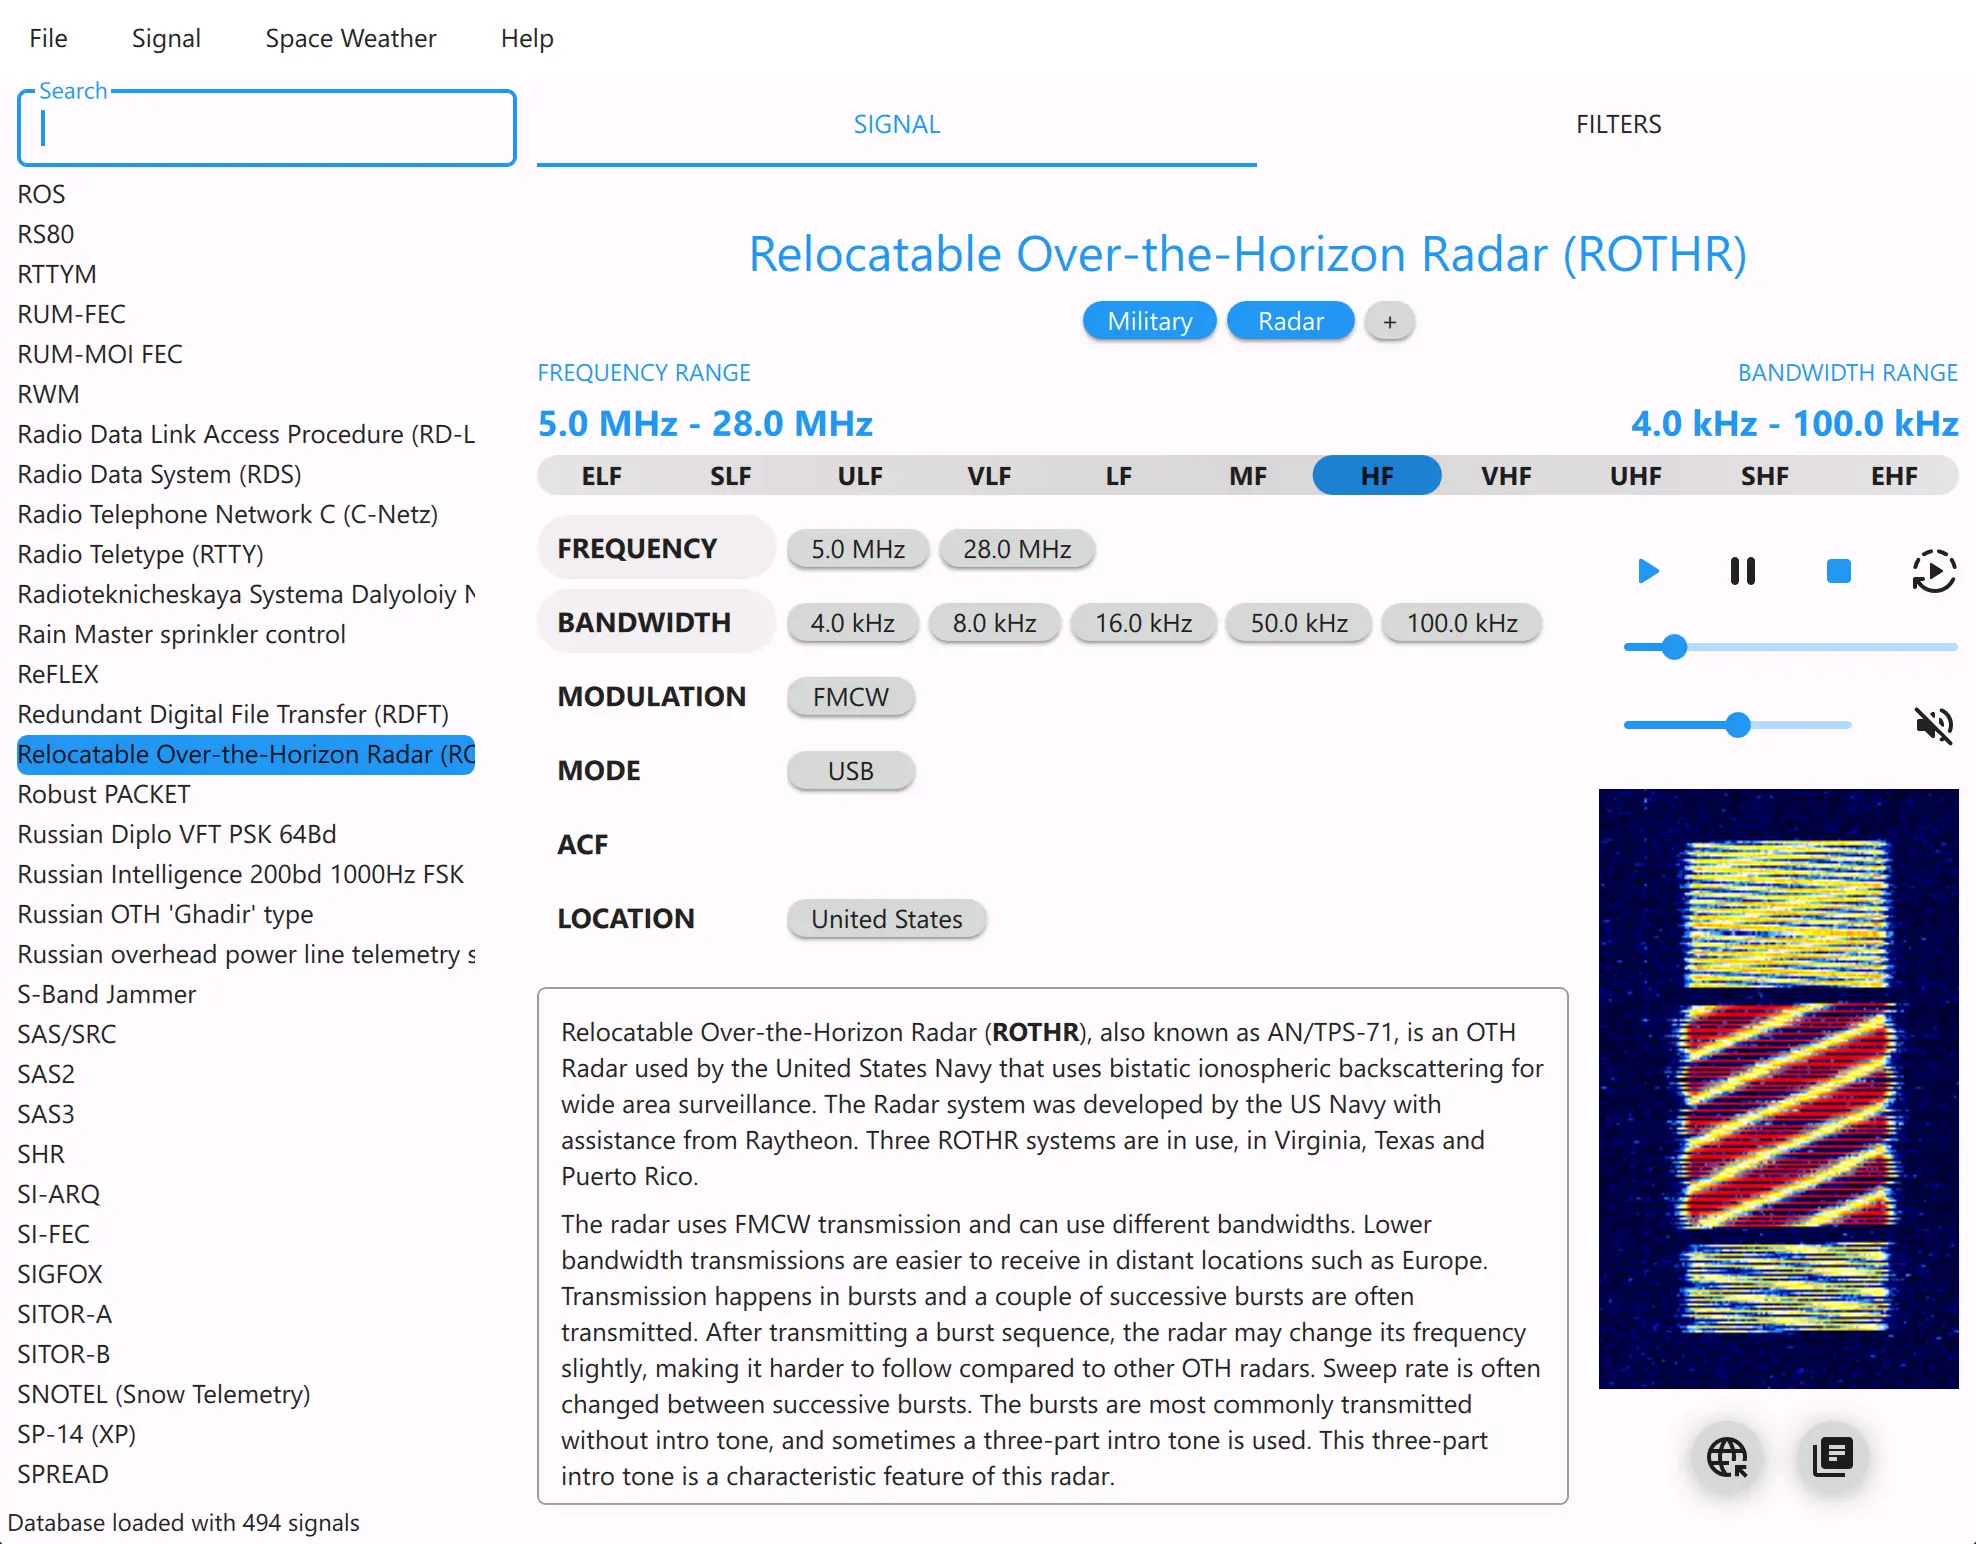
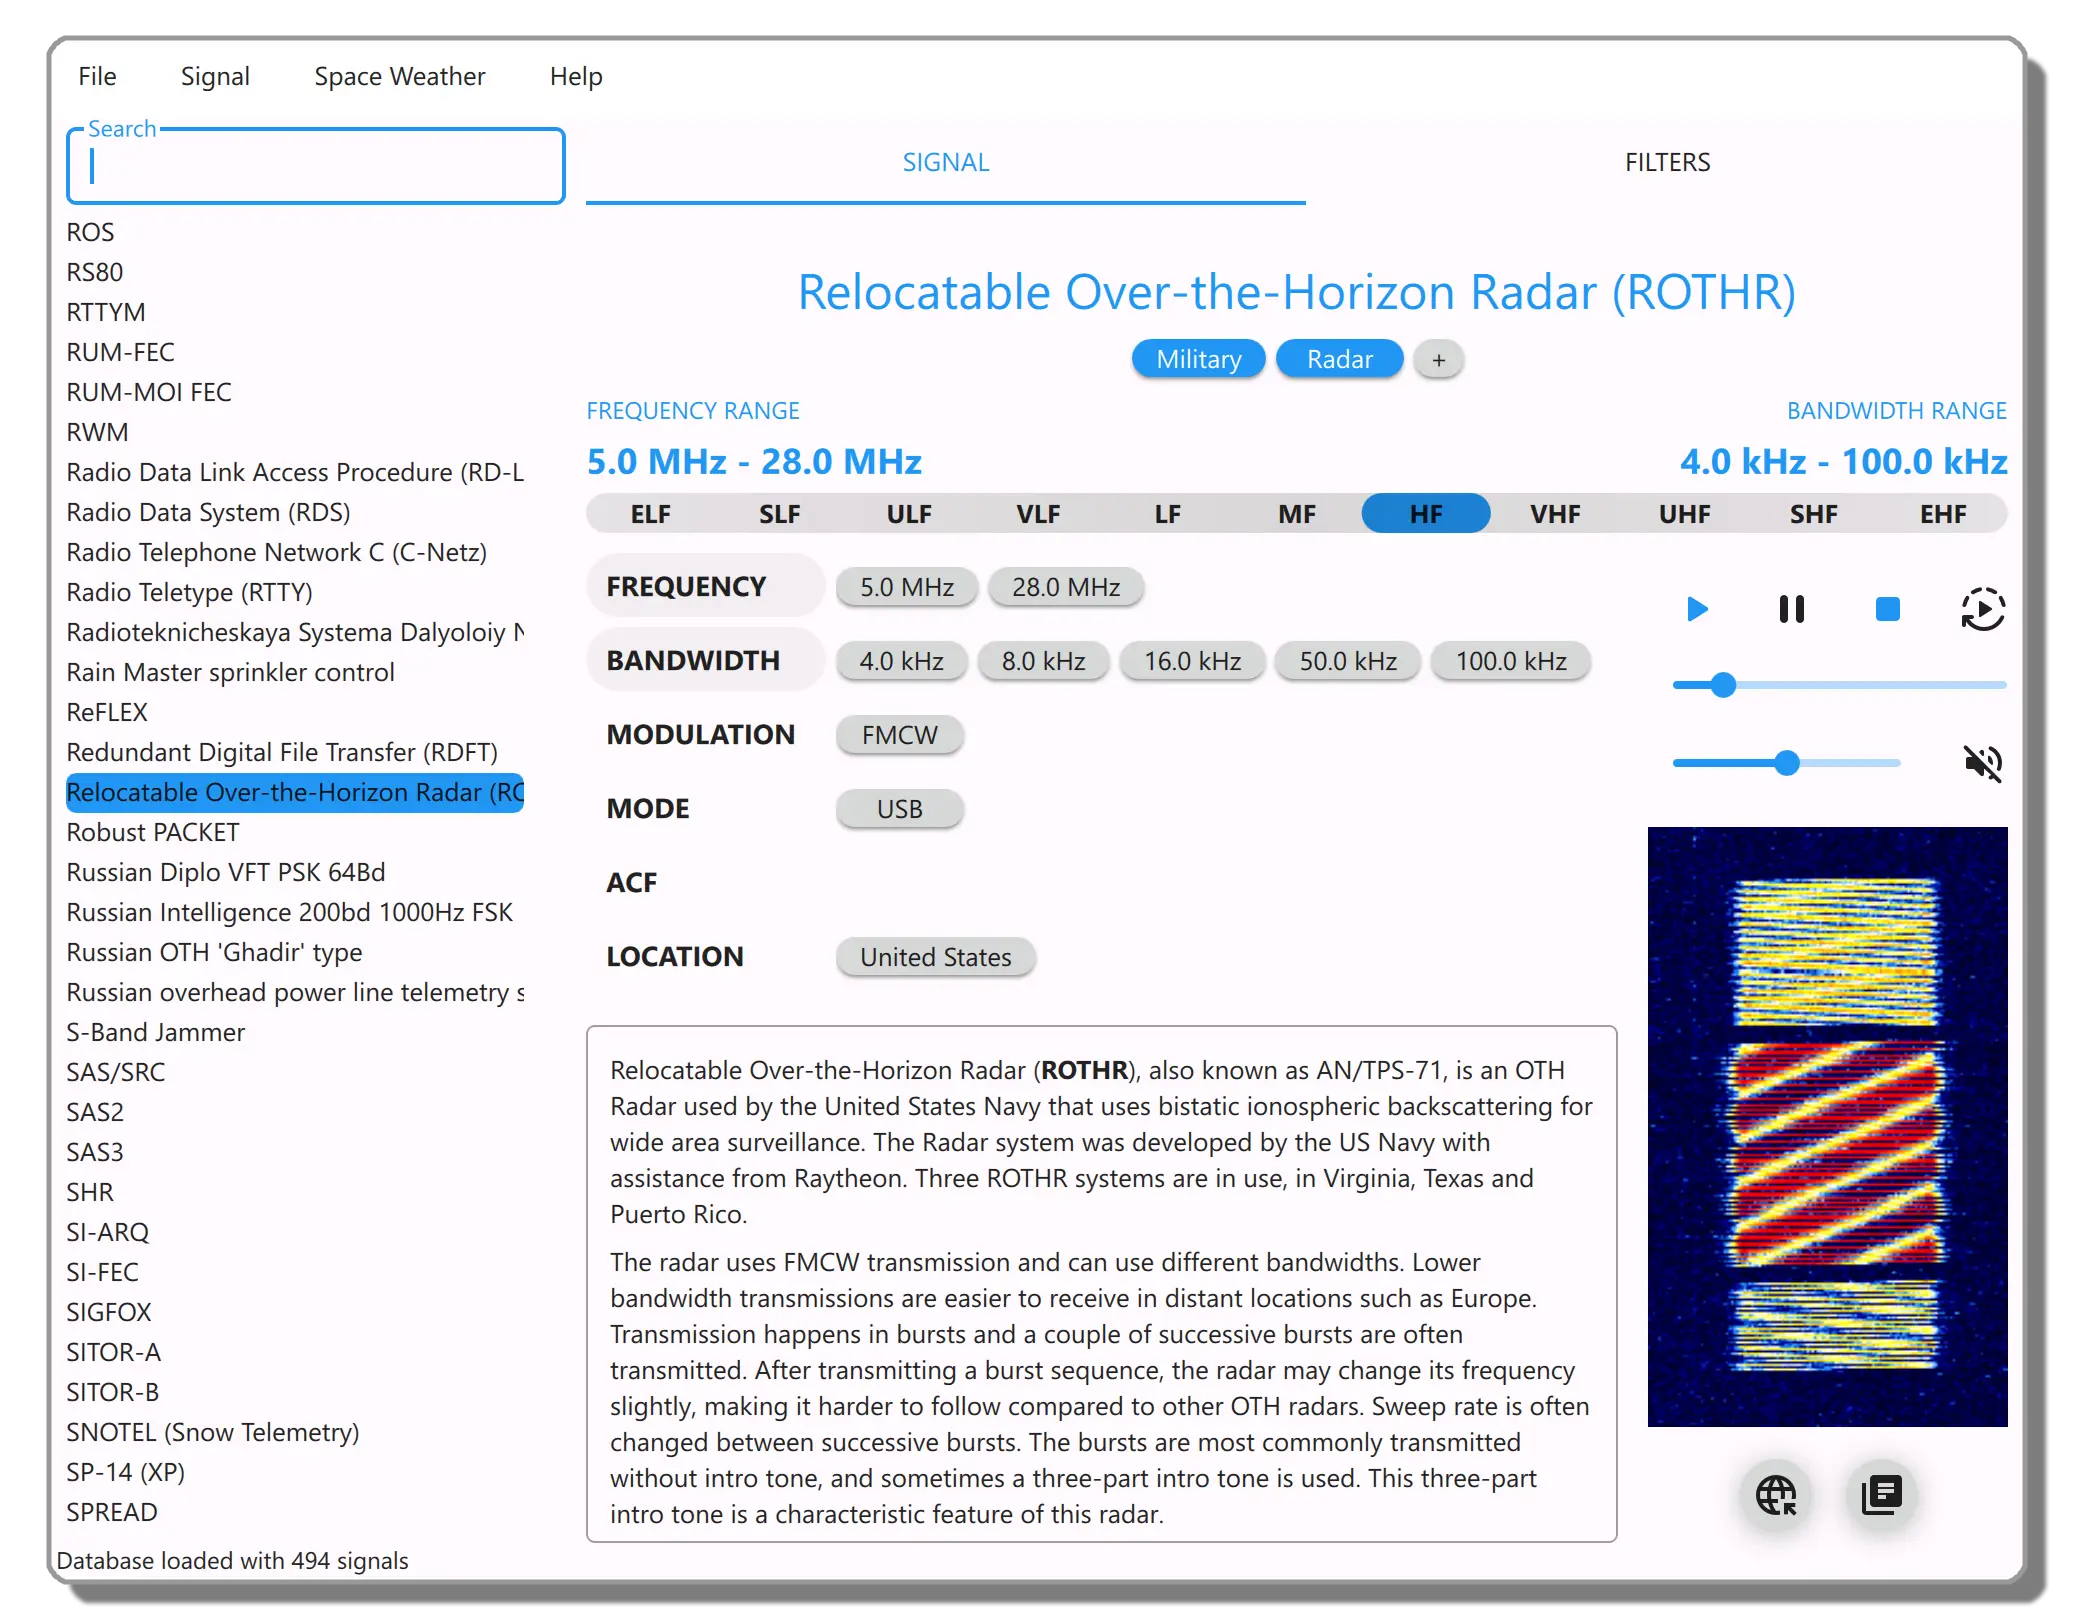
Updated readme image

diff --git a/README.md b/README.md
@@ -15,7 +15,7 @@
 **Artemis** is a software designed to assist **radio frequency (RF) signal identification and storage**. It simplifies real-time spectrum analysis by leveraging one of the most extensive and community-driven databases, containing nearly **500 recognized signals**. This comprehensive software solution allows users to collect RF signals with specific parameters such as frequency, bandwidth, modulation, etc. Users can also store spectrum waterfalls, audio samples, and all types of documents for future reference. Artemis provides a robust platform to manage a wide range of RF data with precision and ease.
 
 <div align="center">
-    <img src="docs/assets/artemis_preview.webp" style="border-radius: 10px; box-shadow: 5px 5px 15px 5px rgba(0,0,0,0.3)">
+    <img src="docs/assets/artemis_preview.webp">
 </div>
 
 ## Documentation
